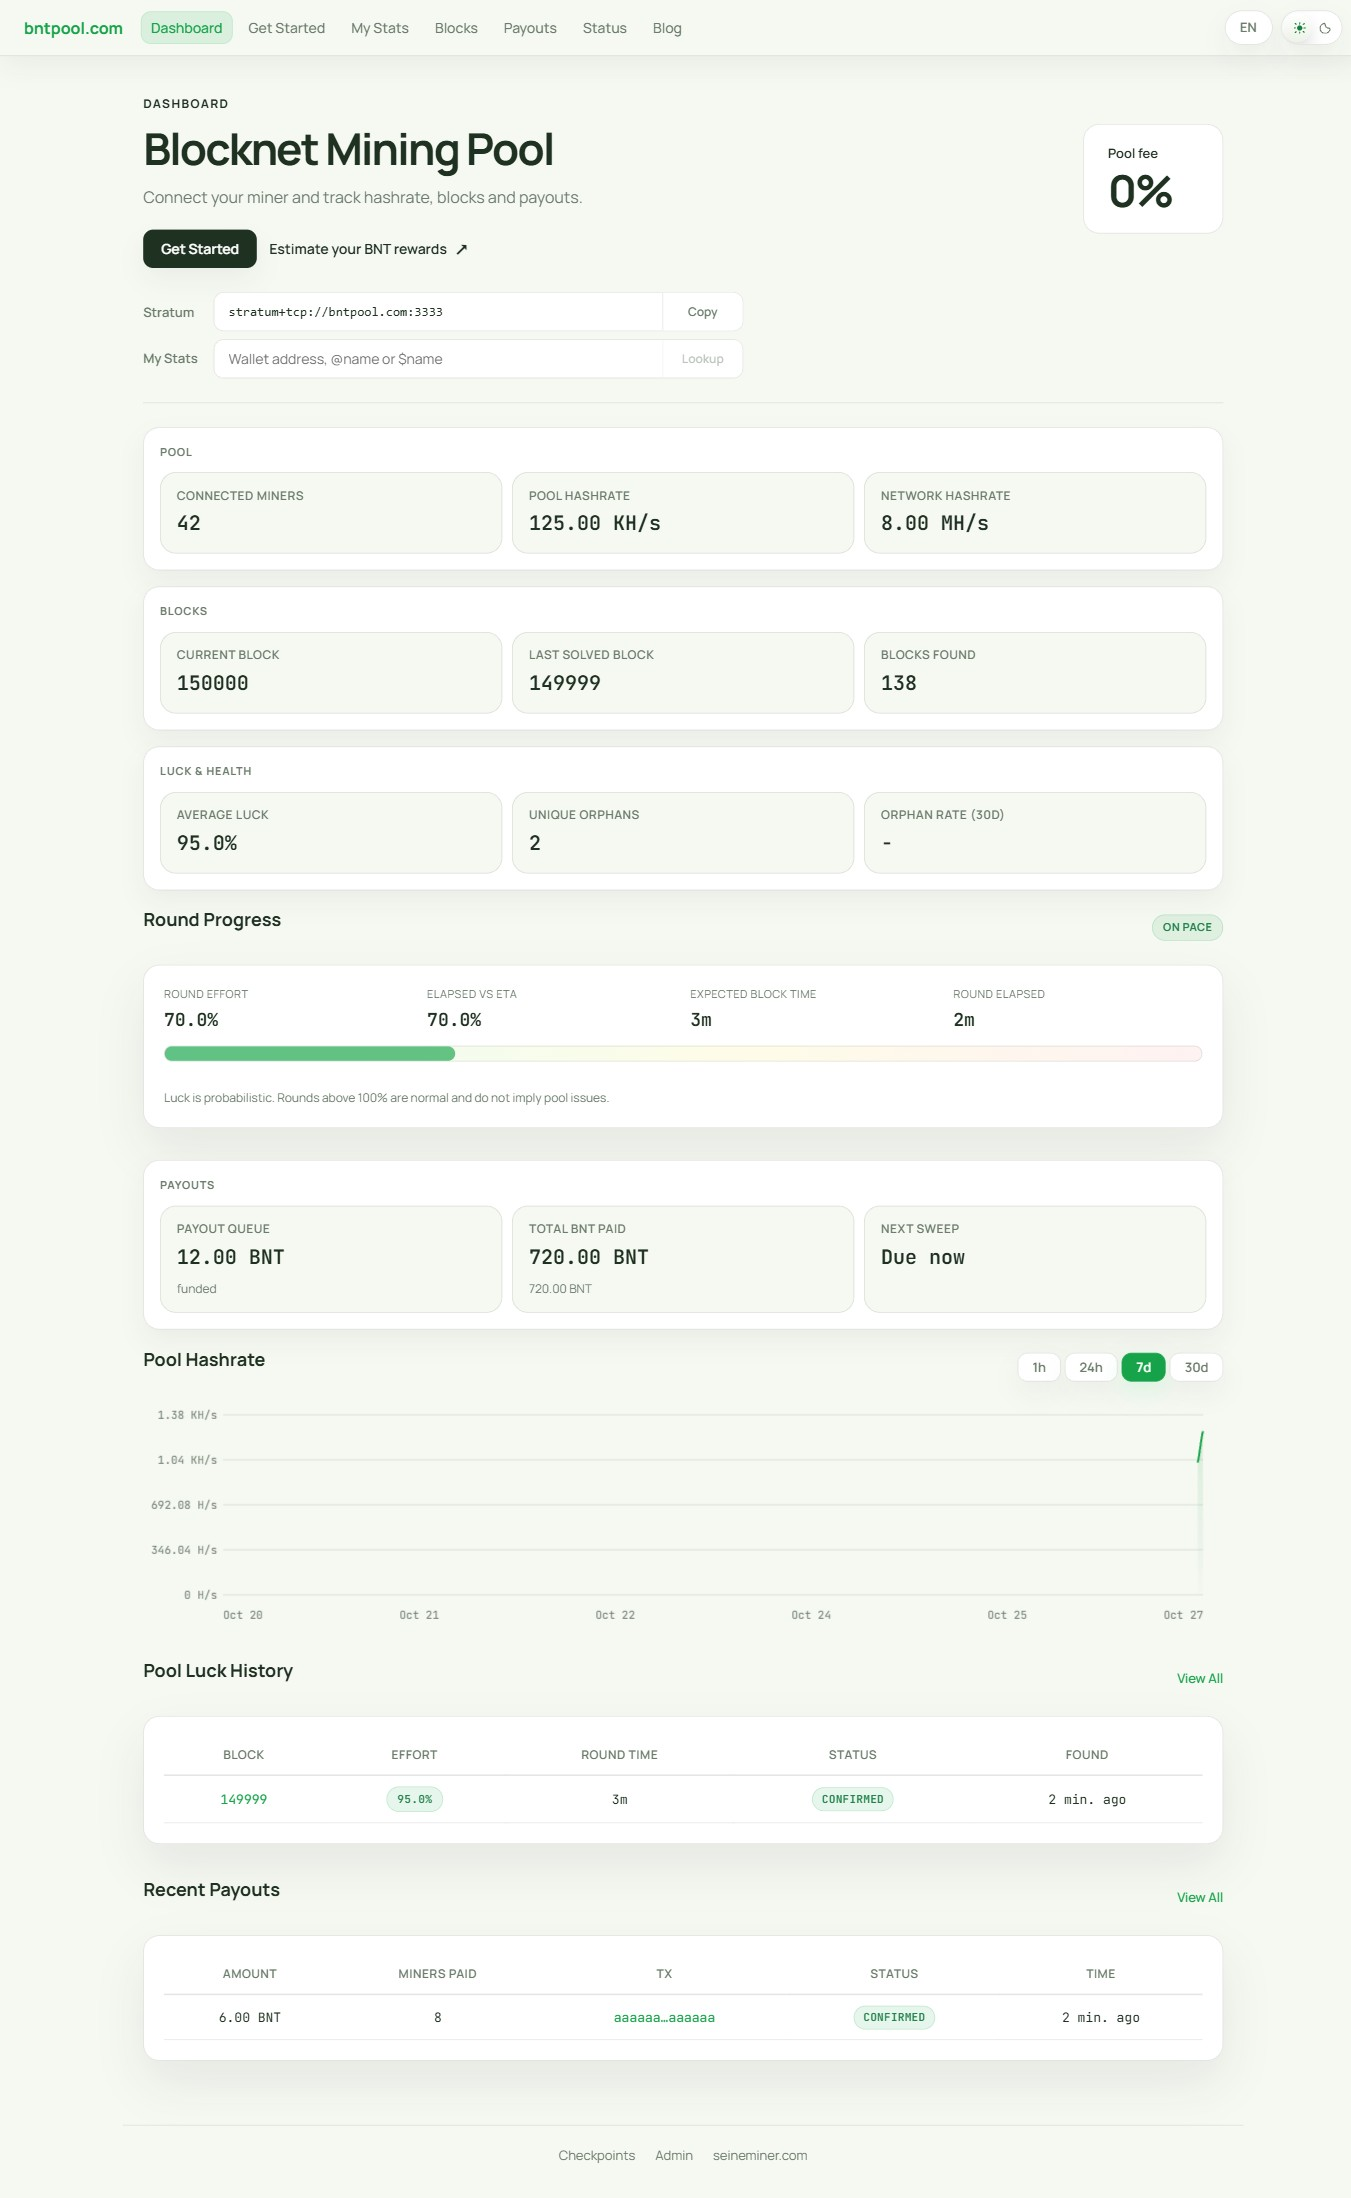
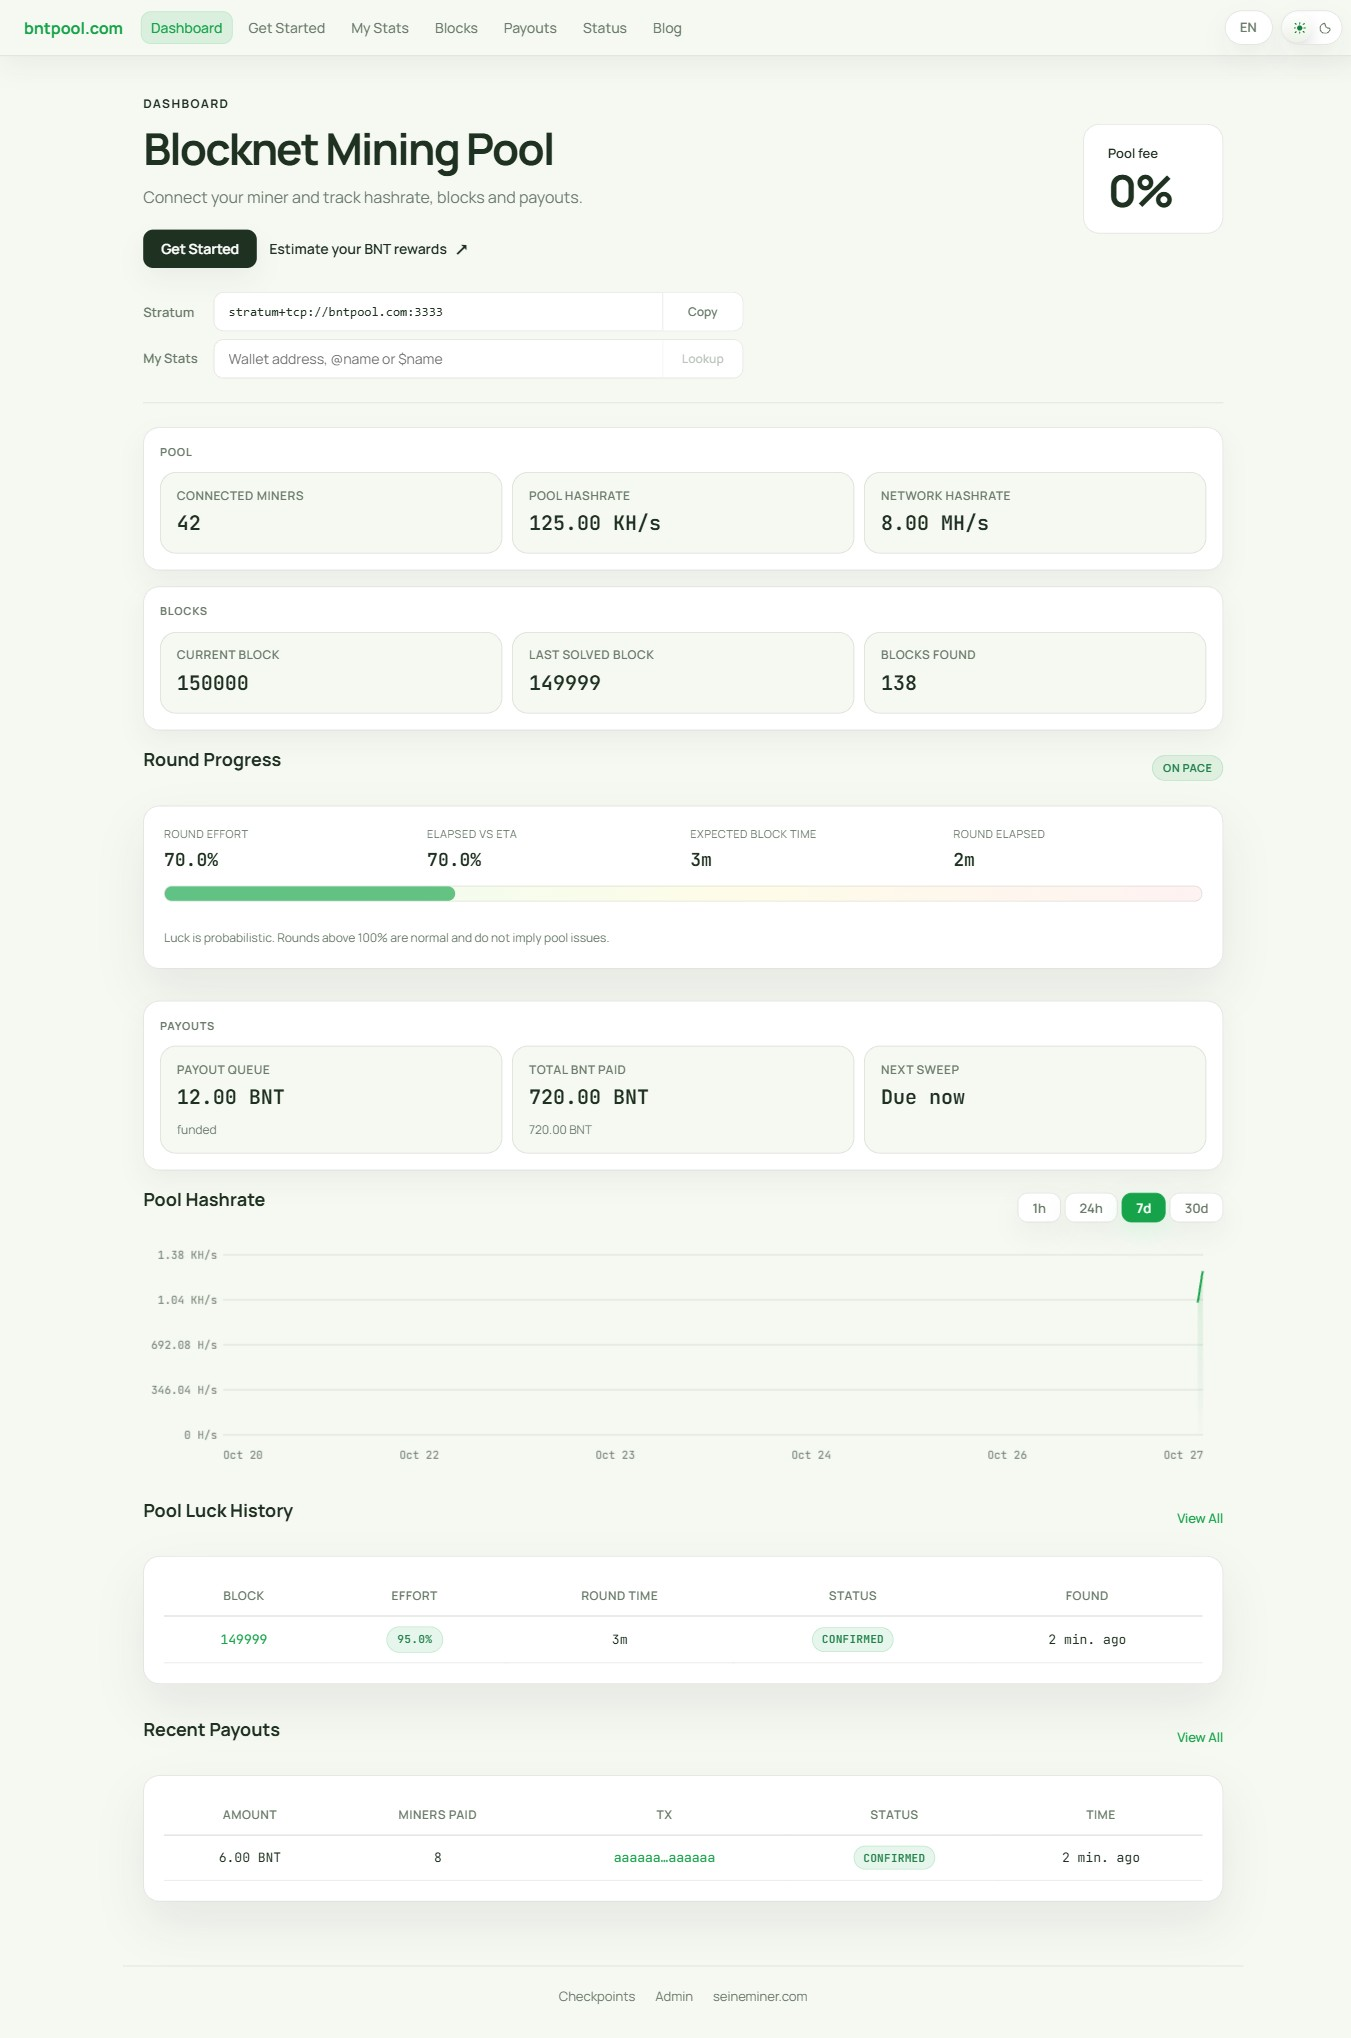
Remove Luck and Health cards from the pool dashboard

diff --git a/frontend/src/pages/DashboardPage.tsx b/frontend/src/pages/DashboardPage.tsx
@@ -144,7 +144,6 @@ export function DashboardPage({ api, poolInfo, liveTick, theme, onJumpToStats }:
       : Math.max(0, payoutEta.pending_total_amount - payoutEta.wallet_spendable);
   const payoutLiquidityConstrained = payoutEta != null && payoutEta.pending_total_amount > 0 && payoutShortfall > 0;
 
-  const avgLuck = insights?.avg_effort_pct;
   const roundEffortPct = round?.effort_pct;
   const roundTone = roundToneClass(roundEffortPct);
   const cappedRoundEffortPct = Math.min(Math.max(roundEffortPct ?? 0, 0), 250);
@@ -237,20 +236,6 @@ export function DashboardPage({ api, poolInfo, liveTick, theme, onJumpToStats }:
             mono
           />
           <StatCard label={t("m411")} value={stats?.pool?.blocks_found ?? '-'} id="s-blocks" />
-        </div>
-      </div>
-
-      <div className="stats-card-group">
-        <div className="stats-card-group-title">{t("m412")}</div>
-        <div className="stats-card-group-grid">
-          <StatCard label={t("m413")} value={formatPct(avgLuck)} id="s-avg-luck" />
-          <StatCard label={t("m414")} value={stats?.pool?.orphaned_blocks ?? '-'} id="s-orphaned-blocks" />
-          <StatCard
-            label={t("m415")}
-            value={formatPct(stats?.pool?.orphan_rate_30d_pct)}
-            title={t("m416", [formatPct(stats?.pool?.orphan_rate_pct)])}
-            id="s-orphan-rate"
-          />
         </div>
       </div>
 

diff --git a/frontend/showcases/ui-simplify/README.md b/frontend/showcases/ui-simplify/README.md
@@ -12,7 +12,8 @@ What it shows:
 - Navigation: Checkpoints and Admin move to the footer; My Stats sits next to
   Get Started; the menu stays expanded down to 1100px.
 - Dashboard: a My Stats lookup beside the Stratum address; a past sweep time
-  reads "Due now".
+  reads "Due now". The Luck & Health row (Average Luck, Unique Orphans, and
+  Orphan Rate) is removed, so Blocks flows directly into Round Progress.
 - My Stats: a hint for new miners before a lookup; workers page at 20 and
   payouts at 10; the pool-wide rejects panel moves to Status.
 - Language: a URL without `lang` opens in the saved or browser language.
@@ -20,3 +21,18 @@ What it shows:
 `captures/` holds desktop (1366px) and phone (390px) captures taken with the
 Windows Playwright MCP from the fixture: `/start`, `/start` auto-selected German,
 `/?demo=farm`, `/stats?demo=empty`, `/stats?demo=farm` and `/status`.
+
+Dashboard captures refreshed on October 27, 2026 (EDT), from base revision
+`7ea431f` with the Luck & Health removal. Dashboard source blob:
+`703e2226148e37f9a8b0e77cd25b0b28fa92d0e6`.
+Open <http://localhost:5186/?demo=farm&lang=en> for populated data and a due
+payout sweep; use `demo=loading`, `demo=empty`, or `demo=error` for the other
+captured states. The loading/error captures include disabled Copy and Lookup
+controls. All eight dashboard captures were reviewed at 1366px and 390px;
+the removed cards are absent, Round Progress and Pool Luck History remain,
+and the page has no horizontal overflow.
+
+Validation: production frontend build passed; 25 of 26 frontend tests passed.
+The existing rewards calculator test expects release v0.2.39 while the release
+metadata on the base revision is v0.2.42. Browser console inspection found only
+an unrelated wallet-extension injection error.
